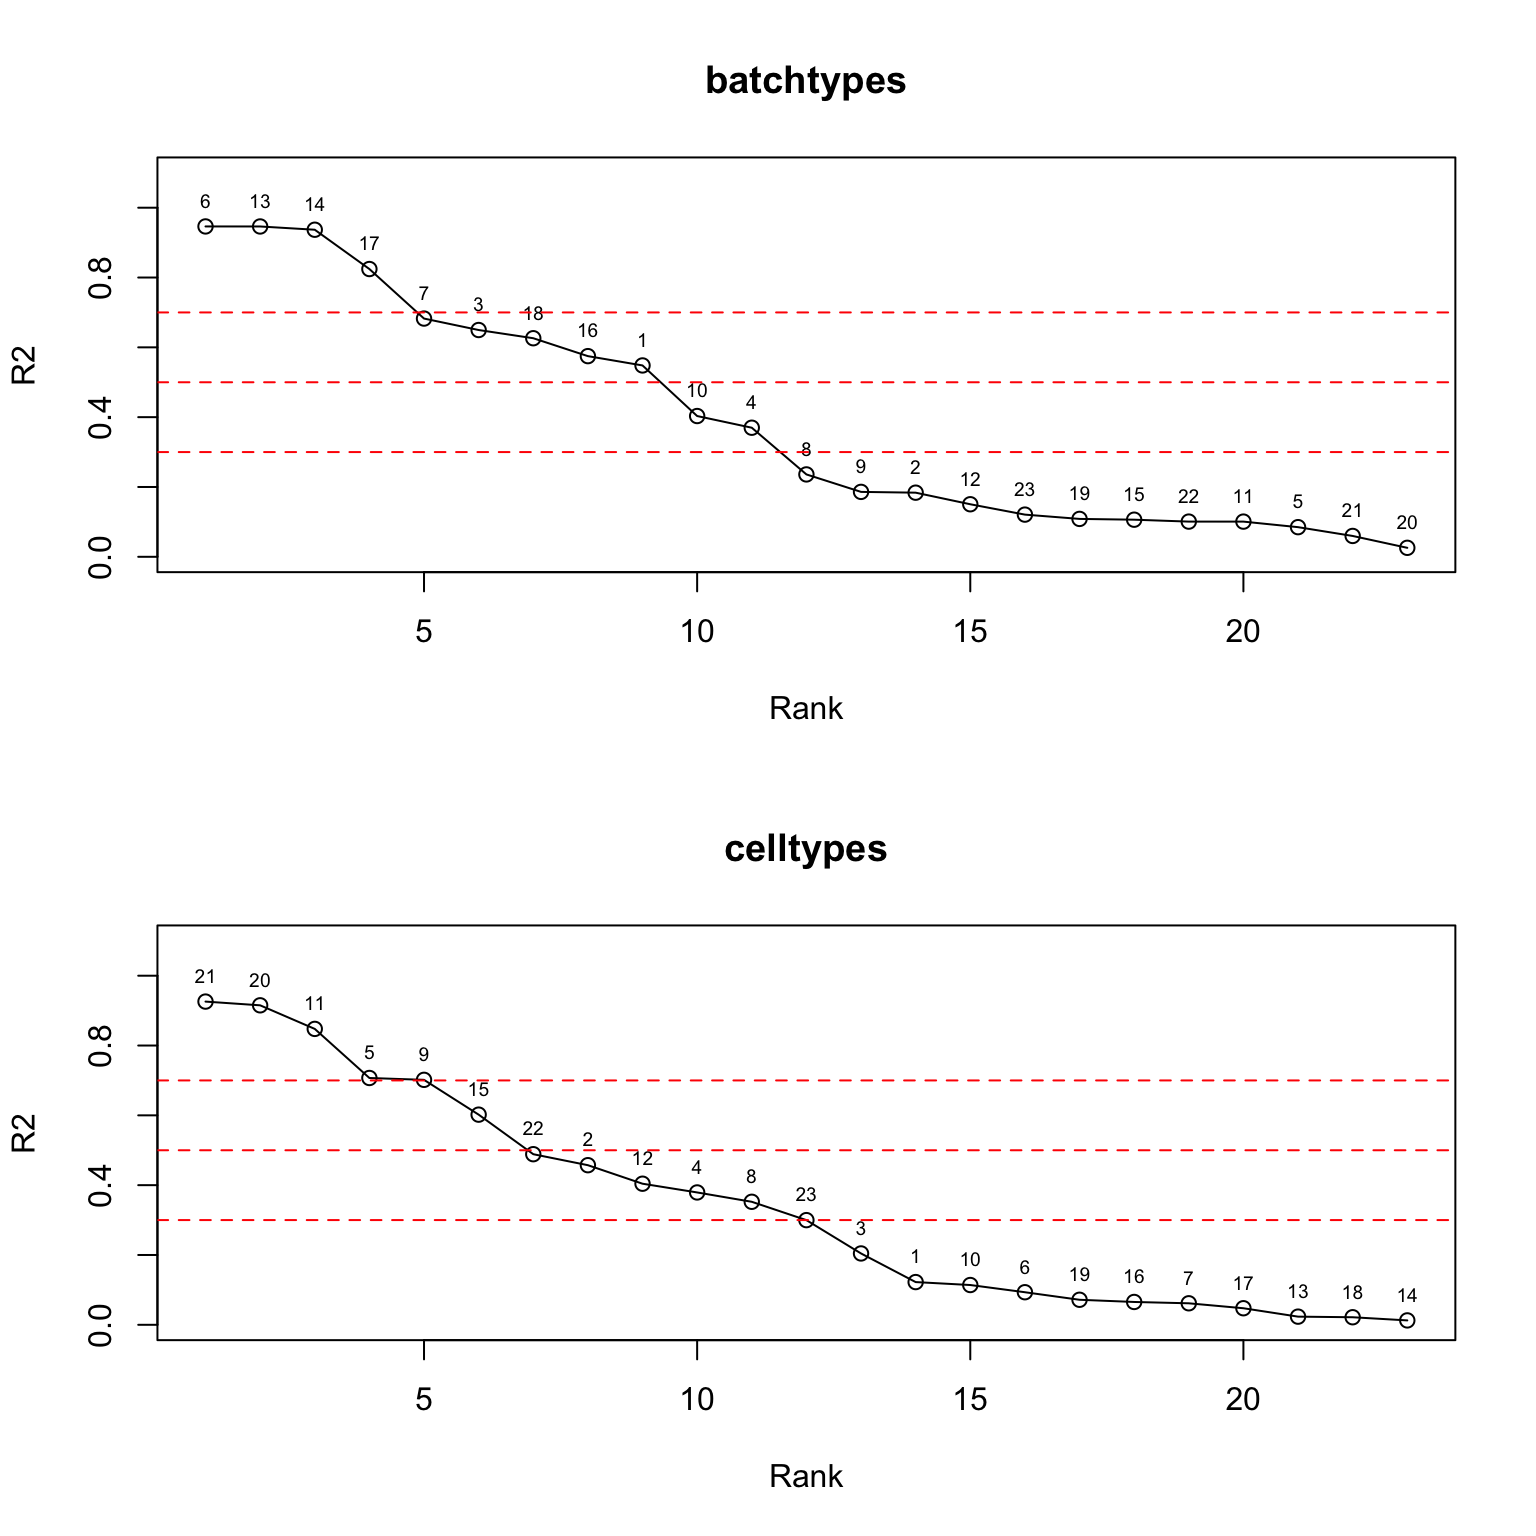
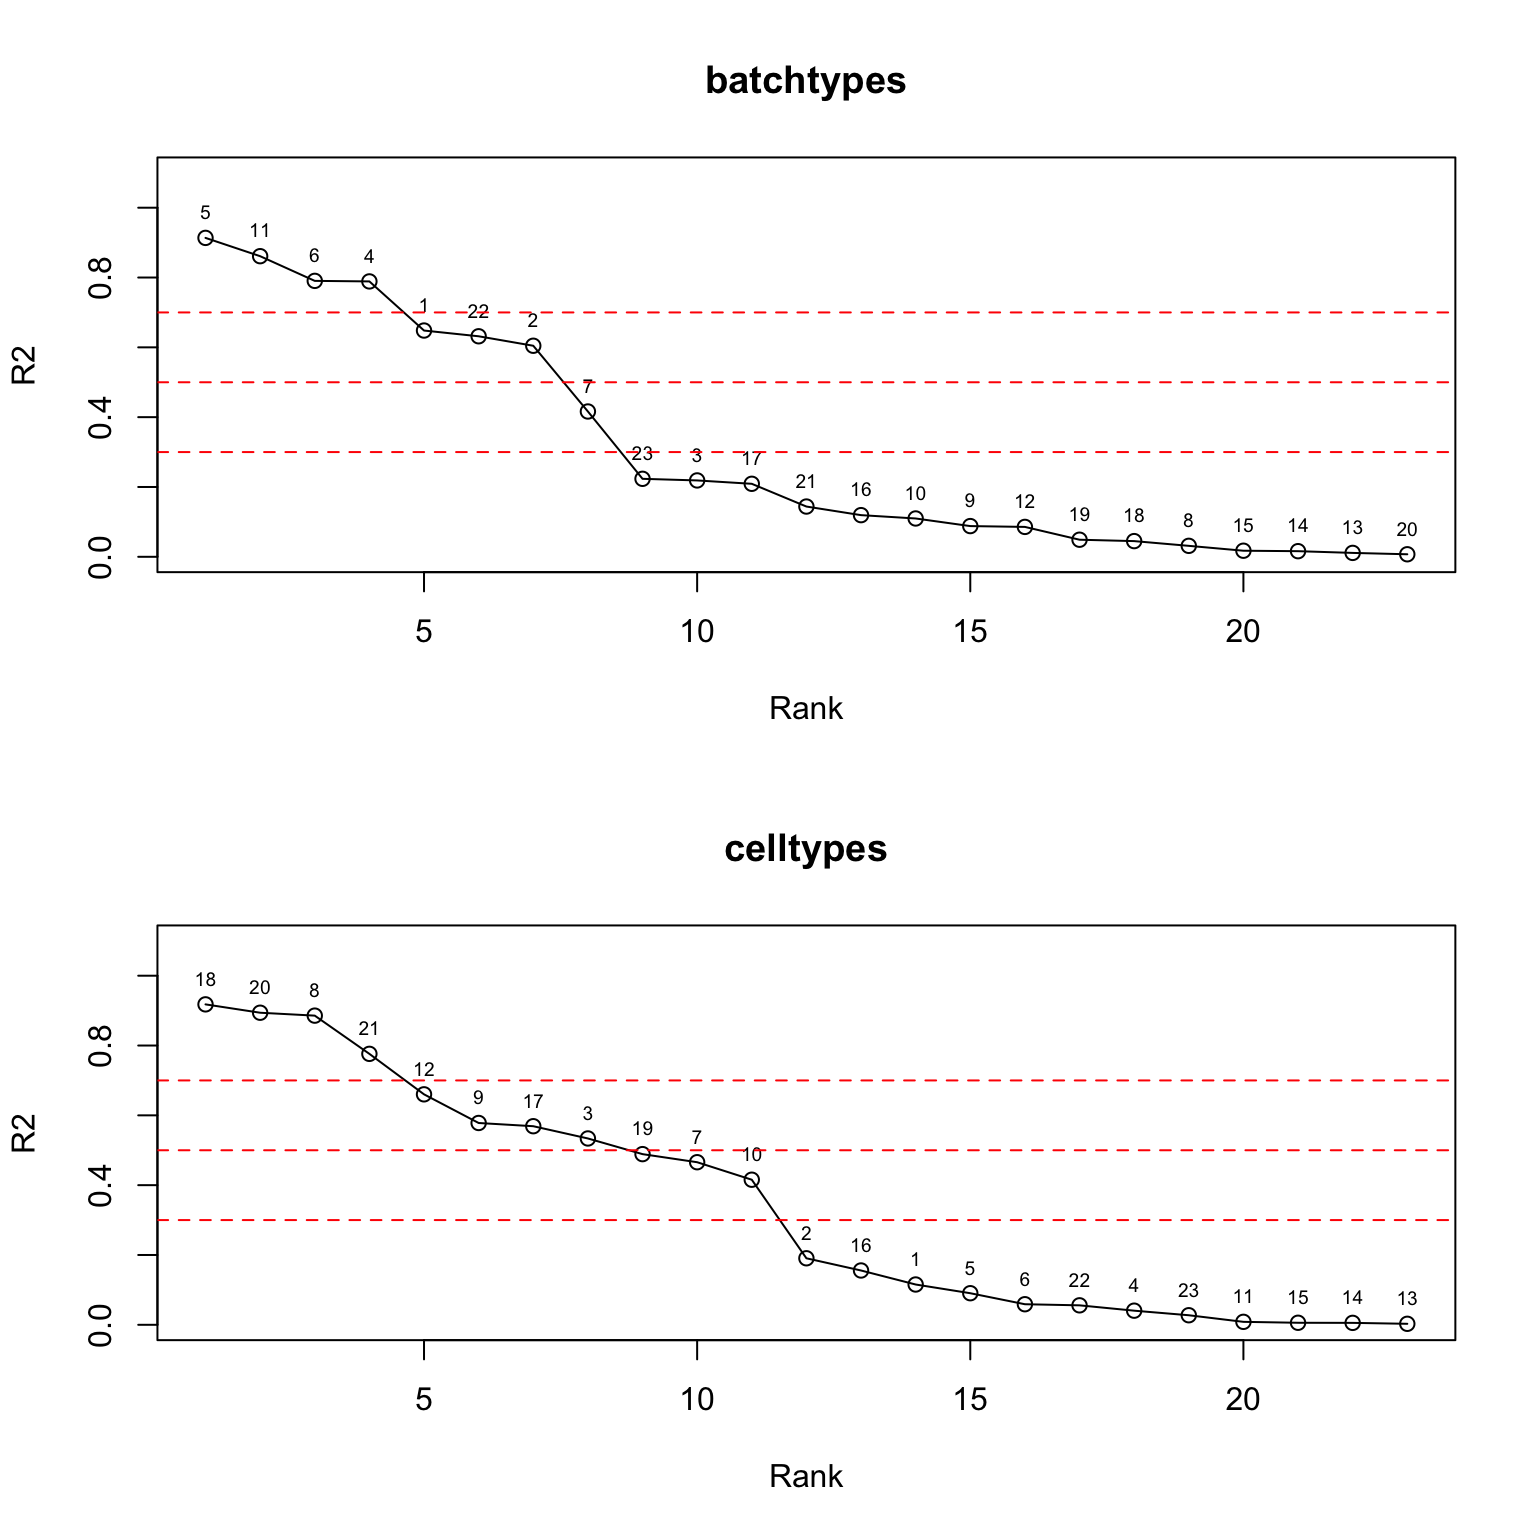
Build site.

diff --git a/docs/pancreas_group.html b/docs/pancreas_group.html
@@ -303,7 +303,7 @@ class="glyphicon glyphicon-ok text-success" aria-hidden="true"></span>
 <div class="tab-content">
 <div id="summary" class="tab-pane fade in active">
 <p>
-<strong>Last updated:</strong> 2025-04-02
+<strong>Last updated:</strong> 2025-08-01
 </p>
 <p>
 <strong>Checks:</strong> <span
@@ -435,15 +435,15 @@ project makes it easier to run your code on other machines.</p>
 <div class="panel panel-default">
 <div class="panel-heading">
 <p class="panel-title">
-<a data-toggle="collapse" data-parent="#workflowr-checks" href="#strongRepositoryversionstrongahrefhttpsgithubcomstephenslabsinglecelljamboreetreeac96a01a7d66d0ead39afde968b46aaa7e8087a1targetblankac96a01a">
+<a data-toggle="collapse" data-parent="#workflowr-checks" href="#strongRepositoryversionstrongahrefhttpsgithubcomstephenslabsinglecelljamboreetree7b84c17ef0b9c8312bc813496d60aed02997118ftargetblank7b84c17a">
 <span class="glyphicon glyphicon-ok text-success"
 aria-hidden="true"></span> <strong>Repository version:</strong>
-<a href="https://github.com/stephenslab/single-cell-jamboree/tree/ac96a01a7d66d0ead39afde968b46aaa7e8087a1" target="_blank">ac96a01</a>
+<a href="https://github.com/stephenslab/single-cell-jamboree/tree/7b84c17ef0b9c8312bc813496d60aed02997118f" target="_blank">7b84c17</a>
 </a>
 </p>
 </div>
 <div
[2 lines of base64/hex data omitted]
 class="panel-collapse collapse">
 <div class="panel-body">
 <p>
@@ -453,7 +453,7 @@ reproducibility.
 </p>
 <p>
 The results in this page were generated with repository version
-<a href="https://github.com/stephenslab/single-cell-jamboree/tree/ac96a01a7d66d0ead39afde968b46aaa7e8087a1" target="_blank">ac96a01</a>.
+<a href="https://github.com/stephenslab/single-cell-jamboree/tree/7b84c17ef0b9c8312bc813496d60aed02997118f" target="_blank">7b84c17</a>.
 See the <em>Past versions</em> tab to see a history of the changes made
 to the R Markdown and HTML files.
 </p>
@@ -535,6 +535,40 @@ Message
 </tr>
 </thead>
 <tbody>
+<tr>
+<td>
+Rmd
+</td>
+<td>
+<a href="https://github.com/stephenslab/single-cell-jamboree/blob/7b84c17ef0b9c8312bc813496d60aed02997118f/analysis/pancreas_group.rmd" target="_blank">7b84c17</a>
+</td>
+<td>
+Ziang Zhang
+</td>
+<td>
+2025-08-01
+</td>
+<td>
+workflowr::wflow_publish("analysis/pancreas_group.rmd")
+</td>
+</tr>
+<tr>
+<td>
+html
+</td>
+<td>
+<a href="https://rawcdn.githack.com/stephenslab/single-cell-jamboree/7dddd9b6df5aefc88e45e70ca57bfd541d01ab6c/docs/pancreas_group.html" target="_blank">7dddd9b</a>
+</td>
+<td>
+Ziang Zhang
+</td>
+<td>
+2025-04-02
+</td>
+<td>
+Build site.
+</td>
+</tr>
 <tr>
 <td>
 Rmd
@@ -666,8 +700,9 @@ dataset, based on the grouping information provided in the metadata.</p>
 <pre class="r"><code>library(Matrix)
 library(fastTopics)</code></pre>
 <pre><code>Warning: package &#39;fastTopics&#39; was built under R version 4.3.3</code></pre>
-<pre class="r"><code>library(ggplot2)
-library(cowplot)
+<pre class="r"><code>library(ggplot2)</code></pre>
+<pre><code>Warning: package &#39;ggplot2&#39; was built under R version 4.3.3</code></pre>
+<pre class="r"><code>library(cowplot)
 set.seed(1)
 subsample_cell_types &lt;- function (x, n = 1000) {
   cells &lt;- NULL
@@ -1298,8 +1333,8 @@ x &lt;- apply(L,2,function (x) quantile(x,0.995))
 L &lt;- scale_cols(L,1/x)
 colnames(L) &lt;- paste0(&quot;k&quot;,1:k)</code></pre>
 <p>Take a look at the elbow plot:</p>
-<pre class="r"><code>ordered_df_tech &lt;- ANOVA_factors(W[cells,], sample_info$tech[cells], stats = &quot;R2&quot;)
-ordered_df_celltype &lt;- ANOVA_factors(W[cells,], sample_info$celltype[cells], stats = &quot;R2&quot;)
+<pre class="r"><code>ordered_df_tech &lt;- ANOVA_factors(L[cells,], sample_info$tech[cells], stats = &quot;R2&quot;)
+ordered_df_celltype &lt;- ANOVA_factors(L[cells,], sample_info$celltype[cells], stats = &quot;R2&quot;)
 par(mfrow = c(2,1))
 plot(ordered_df_tech$rank, ordered_df_tech$stats, type = &quot;o&quot;, xlab = &quot;Rank&quot;, ylab = &quot;R2&quot;, main = &quot;batchtypes&quot;, ylim = c(0,1.1))
 text(ordered_df_tech$rank, ordered_df_tech$stats, labels = ordered_df_tech$factor, pos = 3, cex = 0.6)
@@ -1503,7 +1538,7 @@ Session information
 <pre class="r"><code>sessionInfo()</code></pre>
 <pre><code>R version 4.3.1 (2023-06-16)
 Platform: aarch64-apple-darwin20 (64-bit)
-Running under: macOS Monterey 12.7.4
+Running under: macOS 15.5
 
 Matrix products: default
 BLAS:   /Library/Frameworks/R.framework/Versions/4.3-arm64/Resources/lib/libRblas.0.dylib 
@@ -1519,36 +1554,34 @@ attached base packages:
 [1] stats     graphics  grDevices utils     datasets  methods   base     
 
 other attached packages:
-[1] cowplot_1.1.3      ggplot2_3.5.1      fastTopics_0.6-192 Matrix_1.6-4      
+[1] cowplot_1.1.3      ggplot2_3.5.2      fastTopics_0.6-192 Matrix_1.6-4      
 
 loaded via a namespace (and not attached):
- [1] gtable_0.3.6        xfun_0.48           bslib_0.8.0        
+ [1] gtable_0.3.6        xfun_0.52           bslib_0.9.0        
  [4] htmlwidgets_1.6.4   ggrepel_0.9.6       lattice_0.22-6     
  [7] quadprog_1.5-8      vctrs_0.6.5         tools_4.3.1        
-[10] generics_0.1.3      parallel_4.3.1      tibble_3.2.1       
-[13] fansi_1.0.6         highr_0.11          pkgconfig_2.0.3    
-[16] data.table_1.16.2   SQUAREM_2021.1      RcppParallel_5.1.9 
-[19] lifecycle_1.0.4     truncnorm_1.0-9     farver_2.1.2       
-[22] compiler_4.3.1      stringr_1.5.1       git2r_0.33.0       
-[25] progress_1.2.3      munsell_0.5.1       RhpcBLASctl_0.23-42
-[28] httpuv_1.6.15       htmltools_0.5.8.1   sass_0.4.9         
-[31] yaml_2.3.10         lazyeval_0.2.2      plotly_4.10.4      
-[34] crayon_1.5.3        later_1.3.2         pillar_1.9.0       
-[37] jquerylib_0.1.4     whisker_0.4.1       tidyr_1.3.1        
-[40] uwot_0.1.16         cachem_1.1.0        gtools_3.9.5       
-[43] tidyselect_1.2.1    digest_0.6.37       Rtsne_0.17         
-[46] stringi_1.8.4       dplyr_1.1.4         purrr_1.0.2        
-[49] ashr_2.2-66         labeling_0.4.3      rprojroot_2.0.4    
-[52] fastmap_1.2.0       grid_4.3.1          colorspace_2.1-1   
-[55] cli_3.6.3           invgamma_1.1        magrittr_2.0.3     
-[58] utf8_1.2.4          withr_3.0.2         prettyunits_1.2.0  
-[61] scales_1.3.0        promises_1.3.0      rmarkdown_2.28     
-[64] httr_1.4.7          workflowr_1.7.1     hms_1.1.3          
-[67] pbapply_1.7-2       evaluate_1.0.1      knitr_1.48         
-[70] viridisLite_0.4.2   irlba_2.3.5.1       rlang_1.1.4        
-[73] Rcpp_1.0.13-1       mixsqp_0.3-54       glue_1.8.0         
-[76] rstudioapi_0.16.0   jsonlite_1.8.9      R6_2.5.1           
-[79] fs_1.6.4           </code></pre>
+[10] generics_0.1.4      parallel_4.3.1      tibble_3.2.1       
+[13] pkgconfig_2.0.3     data.table_1.16.2   SQUAREM_2021.1     
+[16] RColorBrewer_1.1-3  RcppParallel_5.1.9  lifecycle_1.0.4    
+[19] truncnorm_1.0-9     compiler_4.3.1      farver_2.1.2       
+[22] stringr_1.5.1       git2r_0.33.0        progress_1.2.3     
+[25] RhpcBLASctl_0.23-42 httpuv_1.6.16       htmltools_0.5.8.1  
+[28] sass_0.4.10         yaml_2.3.10         lazyeval_0.2.2     
+[31] plotly_4.10.4       later_1.4.2         pillar_1.10.2      
+[34] crayon_1.5.3        jquerylib_0.1.4     whisker_0.4.1      
+[37] tidyr_1.3.1         uwot_0.1.16         cachem_1.1.0       
+[40] gtools_3.9.5        tidyselect_1.2.1    digest_0.6.37      
+[43] Rtsne_0.17          stringi_1.8.7       dplyr_1.1.4        
+[46] purrr_1.0.4         ashr_2.2-66         labeling_0.4.3     
+[49] rprojroot_2.0.4     fastmap_1.2.0       grid_4.3.1         
+[52] cli_3.6.5           invgamma_1.1        magrittr_2.0.3     
+[55] withr_3.0.2         prettyunits_1.2.0   scales_1.4.0       
+[58] promises_1.3.3      rmarkdown_2.28      httr_1.4.7         
+[61] workflowr_1.7.1     hms_1.1.3           pbapply_1.7-2      
+[64] evaluate_1.0.3      knitr_1.50          irlba_2.3.5.1      
+[67] viridisLite_0.4.2   rlang_1.1.6         Rcpp_1.0.14        
+[70] mixsqp_0.3-54       glue_1.8.0          rstudioapi_0.16.0  
+[73] jsonlite_2.0.0      R6_2.6.1            fs_1.6.6           </code></pre>
 </div>
 </div>
 </div>
